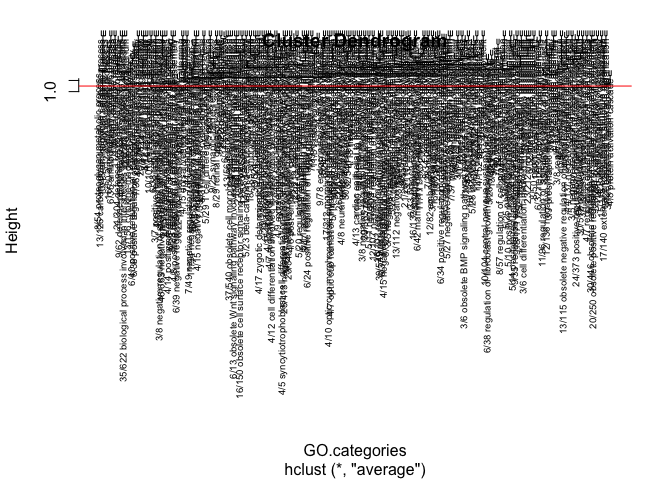
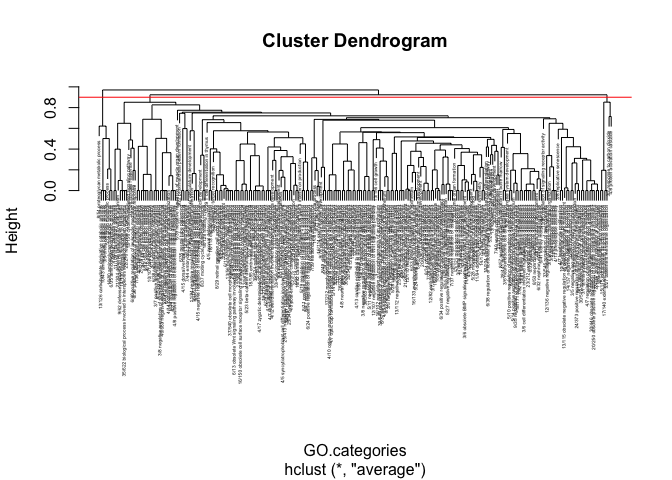
update

diff --git a/code/05-Enrichment.md b/code/05-Enrichment.md
@@ -442,7 +442,7 @@ pcut=1e-2 # adjusted pvalue cutoff for representative GO
 hcut=0.9 # height at which cut the GO terms tree to get "independent groups". 
 
 # plotting the GO tree with the cut level (un-remark the next two lines to plot)
- plot(results[[2]],cex=0.6)
+ plot(results[[2]],cex=0.3)
  abline(h=hcut,col="red")
 ```
 
@@ -671,7 +671,7 @@ pcut=1e-2 # adjusted pvalue cutoff for representative GO
 hcut=0.9 # height at which cut the GO terms tree to get "independent groups". 
 
 # plotting the GO tree with the cut level (un-remark the next two lines to plot)
- plot(results[[2]],cex=0.6)
+ plot(results[[2]],cex=0.1)
  abline(h=hcut,col="red")
 ```
 
@@ -764,37 +764,7 @@ bestGOs
 ``` r
 MWU_BP_DE_LFC <- read.table("go_mwu/MWU_BP_DE_LFC.csv", header = TRUE)
 BP_DE_LFC <- read.table("go_mwu/BP_DE_LFC.csv", header = TRUE)
-
-# Plot terms p.adj < 0.01
-
-freq_fig <- MWU_BP_DE_LFC %>% dplyr::filter(p.adj<0.01) %>%
-    filter(level==2) %>%
-    #filter(!str_detect(name, "obsolete")) %>%
-    ggplot(aes(y=nseqs,x=reorder(name, nseqs)))+
-    geom_point(size=3, color="black")+
-    geom_segment(aes(x=name, xend=name, y=0, yend=nseqs)) +
-    geom_hline(yintercept = 0, linetype="solid", color = 'black', size=0.5, show.legend = TRUE)+
-    coord_flip()+
-    #scale_y_continuous(limits=c(0,430))+
-    scale_x_discrete(labels = label_wrap(60)) +
-    labs(title = "Enriched Biological Process Level 2 GO Terms, DE Genes", x="Term", y="Number of Significant (p.adj < 0.01)\nGO Terms", colour="p-value") +
-    theme_classic() + 
-    theme(axis.text.y = element_text(size = 8), 
-              axis.title = element_text(size = 8), 
-              plot.title = element_text(hjust = 0.5, size = 8))
 ```
-
-    ## Warning: Using `size` aesthetic for lines was deprecated in ggplot2 3.4.0.
-    ## ℹ Please use `linewidth` instead.
-    ## This warning is displayed once every 8 hours.
-    ## Call `lifecycle::last_lifecycle_warnings()` to see where this warning was
-    ## generated.
-
-``` r
-  print(freq_fig)
-```
-
-![](05-Enrichment_files/figure-gfm/unnamed-chunk-15-1.png)<!-- -->
 
 ``` r
 MWU_BP_DE_LFC %>% dplyr::filter(p.adj<0.05 & delta.rank > 0) %>% 
